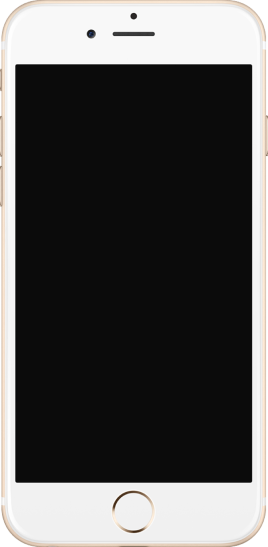
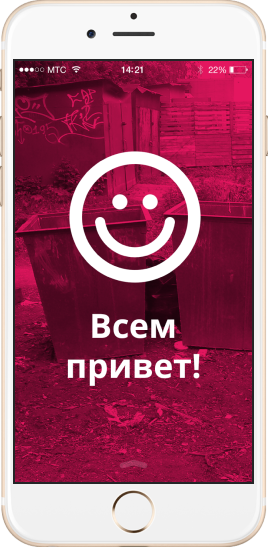
убрана декомпозиция

diff --git a/source/sass/blocks/advantages.scss b/source/sass/blocks/advantages.scss
@@ -150,34 +150,26 @@
   padding: 0;
   width: 320px;
   height: 287px;
-  background-image:
-    url("../img/iphone-screen-3.png"),
-    url("../img/iphone-3.png");
-  background-position: center 44px, center 9px;
-  background-repeat: no-repeat, no-repeat;
+  background-image: url("../img/iphone-3.png");
+  background-position: center 9px;
+  background-repeat: no-repeat;
   background-color: #f2f2f2;
 
   @media (min-resolution: 2dppx) {
-    background-image:
-      url("../img/iphone-screen-3@2x.png"),
-      url("../img/iphone-3@2x.png");
-    background-size: 140px, 157px;
+    background-image: url("../img/iphone-3@2x.png");
+    background-size: 157px;
   }
 
   @media (min-width: $tablet-width) {
     grid-area: advantages-image;
     background-color: transparent;
     height: 497px;
-    background-image:
-      url("../img/iphone-screen-3-tablet.png"),
-      url("../img/iphone-3-tablet.png");
-    background-position: 30px 75px, 15px 16px;
+    background-image: url("../img/iphone-3-tablet.png");
+    background-position: 15px 16px;
 
     @media (min-resolution: 2dppx) {
-      background-image:
-        url("../img/iphone-screen-3-tablet@2x.png"),
-        url("../img/iphone-3-tablet@2x.png");
-      background-size: 241px, 268px;
+      background-image: url("../img/iphone-3-tablet@2x.png");
+      background-size: 268px;
     }
   }
 
@@ -194,19 +186,13 @@
     height: 340px;
     margin: 0;
     width: 300px;
-    background-image:
-      url("../img/shadow.svg"),
-      url("../img/iphone-screen-3-desktop.png"),
-      url("../img/iphone-3-desktop.png");
-    background-position: 0 328px, 69px 79px, 60px 38px;
-    background-repeat: no-repeat, no-repeat, no-repeat;
+    background-image: url("../img/iphone-3-desktop.png");
+    background-position: 0 38px;
+    background-repeat: no-repeat;
 
     @media (min-resolution: 2dppx) {
-      background-image:
-        url("../img/shadow.svg"),
-        url("../img/iphone-screen-3-desktop@2x.png"),
-        url("../img/iphone-3-desktop@2x.png");
-      background-size: 300px, 169px, 186px;
+      background-image: url("../img/iphone-3-desktop@2x.png");
+      background-size: 308px 382px;
     }
   }
 }
@@ -216,20 +202,14 @@
     background-color: transparent;
     height: 340px;
     width: 300px;
-    background-image:
-      url("../img/shadow.svg"),
-      url("../img/iphone-screen-1-desktop.png"),
-      url("../img/iphone-3-desktop.png");
-    background-position: 0 328px, 62px 78px, 53px 38px;
-    background-repeat: no-repeat, no-repeat, no-repeat;
+    background-image: url("../img/iphone-1-desktop.png");
+    background-position: 0 38px;
+    background-repeat: no-repeat;
     margin-right: 20px;
 
     @media (min-resolution: 2dppx) {
-      background-image:
-        url("../img/shadow.svg"),
-        url("../img/iphone-screen-1-desktop@2x.png"),
-        url("../img/iphone-3-desktop@2x.png");
-      background-size: 300px, 169px, 186px;
+      background-image: url("../img/iphone-1-desktop@2x.png");
+      background-size: 308px 382px;
     }
   }
 }
@@ -239,21 +219,15 @@
     background-color: transparent;
     height: 340px;
     width: 300px;
-    background-image:
-      url("../img/shadow.png"),
-      url("../img/iphone-screen-2-desktop.png"),
-      url("../img/iphone-3-desktop.png");
-    background-position: 0 328px, 65px 79px, 56px 38px;
-    background-repeat: no-repeat, no-repeat, no-repeat;
+    background-image: url("../img/iphone-2-desktop.png");
+    background-position: 0 38px;
+    background-repeat: no-repeat;
     margin-right: 20px;
   }
 
   @media (min-resolution: 2dppx) {
-    background-image:
-      url("../img/shadow.svg"),
-      url("../img/iphone-screen-2-desktop@2x.png"),
-      url("../img/iphone-3-desktop@2x.png");
-    background-size: 300px, 169px, 186px;
+    background-image: url("../img/iphone-2-desktop@2x.png");
+    background-size: 308px 382px;
   }
 }
 

diff --git a/source/sass/blocks/promo.scss b/source/sass/blocks/promo.scss
@@ -121,7 +121,7 @@
 
     @media (min-resolution: 2dppx) {
       background-image: url("../img/phone@2x.png");
-      background-size: 320px;
+      background-size: 320px 286px;
     }
 
     @media (min-width: $tablet-width) {
@@ -133,7 +133,7 @@
 
       @media (min-resolution: 2dppx) {
         background-image: url("../img/phone-tablet@2x.png");
-        background-size: 660px;
+        background-size: 660px 545px;
       }
     }
 
@@ -146,50 +146,7 @@
 
       @media (min-resolution: 2dppx) {
         background-image: url("../img/phone-desktop@2x.png");
-        background-size: 1050px;
-      }
-    }
-  }
-
-  &::before {
-    content: "";
-    position: absolute;
-    width: 111px;
-    height: 197px;
-    background-image: url("../img/screen.png");
-    background-size: cover;
-    left: 85px;
-    top: 208px;
-    box-sizing: border-box;
-
-    @media (min-resolution: 2dppx) {
-      background-image: url("../img/screen@2x.png");
-      background-size: 111px;
-    }
-
-    @media (min-width: $tablet-width) {
-      width: 195px;
-      height: 346px;
-      background-image: url("../img/screen-tablet.png");
-      left: 352px;
-      top: 130px;
-
-      @media (min-resolution: 2dppx) {
-        background-image: url("../img/screen-tablet@2x.png");
-        background-size: 195px;
-      }
-    }
-
-    @media (min-width: $desktop-width) {
-      width: 230px;
-      height: 408px;
-      background-image: url("../img/screen-desktop.png");
-      top: 148px;
-      left: 587px;
-
-      @media (min-resolution: 2dppx) {
-        background-image: url("../img/screen-desktop@2x.png");
-        background-size: 460px;
+        background-size: 1050px 645px;
       }
     }
   }

diff --git a/source/index.html b/source/index.html
@@ -278,7 +278,7 @@
           </ul>
         </div>
         <div class="feedback__map">
-          <!-- <iframe class="feedback__map-iframe" src="https://www.google.com/maps/embed?pb=!1m18!1m12!1m3!1d1998.6036253003165!2d30.320858716173472!3d59.938719169054075!2m3!1f0!2f0!3f0!3m2!1i1024!2i768!4f13.1!3m3!1m2!1s0x4696310fca145cc1%3A0x42b32648d8238007!2z0JHQvtC70YzRiNCw0Y8g0JrQvtC90Y7RiNC10L3QvdCw0Y8g0YPQuy4sIDE5LzgsINCh0LDQvdC60YIt0J_QtdGC0LXRgNCx0YPRgNCzLCAxOTExODY!5e0!3m2!1sru!2sru!4v1607752997783!5m2!1sru!2sru" width="320" height="200" style="border: 0;" allowfullscreen="" aria-hidden="false" tabindex="0"></iframe> -->
+          <iframe class="feedback__map-iframe" src="https://www.google.com/maps/embed?pb=!1m18!1m12!1m3!1d1998.6036253003165!2d30.320858716173472!3d59.938719169054075!2m3!1f0!2f0!3f0!3m2!1i1024!2i768!4f13.1!3m3!1m2!1s0x4696310fca145cc1%3A0x42b32648d8238007!2z0JHQvtC70YzRiNCw0Y8g0JrQvtC90Y7RiNC10L3QvdCw0Y8g0YPQuy4sIDE5LzgsINCh0LDQvdC60YIt0J_QtdGC0LXRgNCx0YPRgNCzLCAxOTExODY!5e0!3m2!1sru!2sru!4v1607752997783!5m2!1sru!2sru" width="320" height="200" style="border: 0;" allowfullscreen="" aria-hidden="false" tabindex="0"></iframe>
         </div>
       </section>
     </main>
